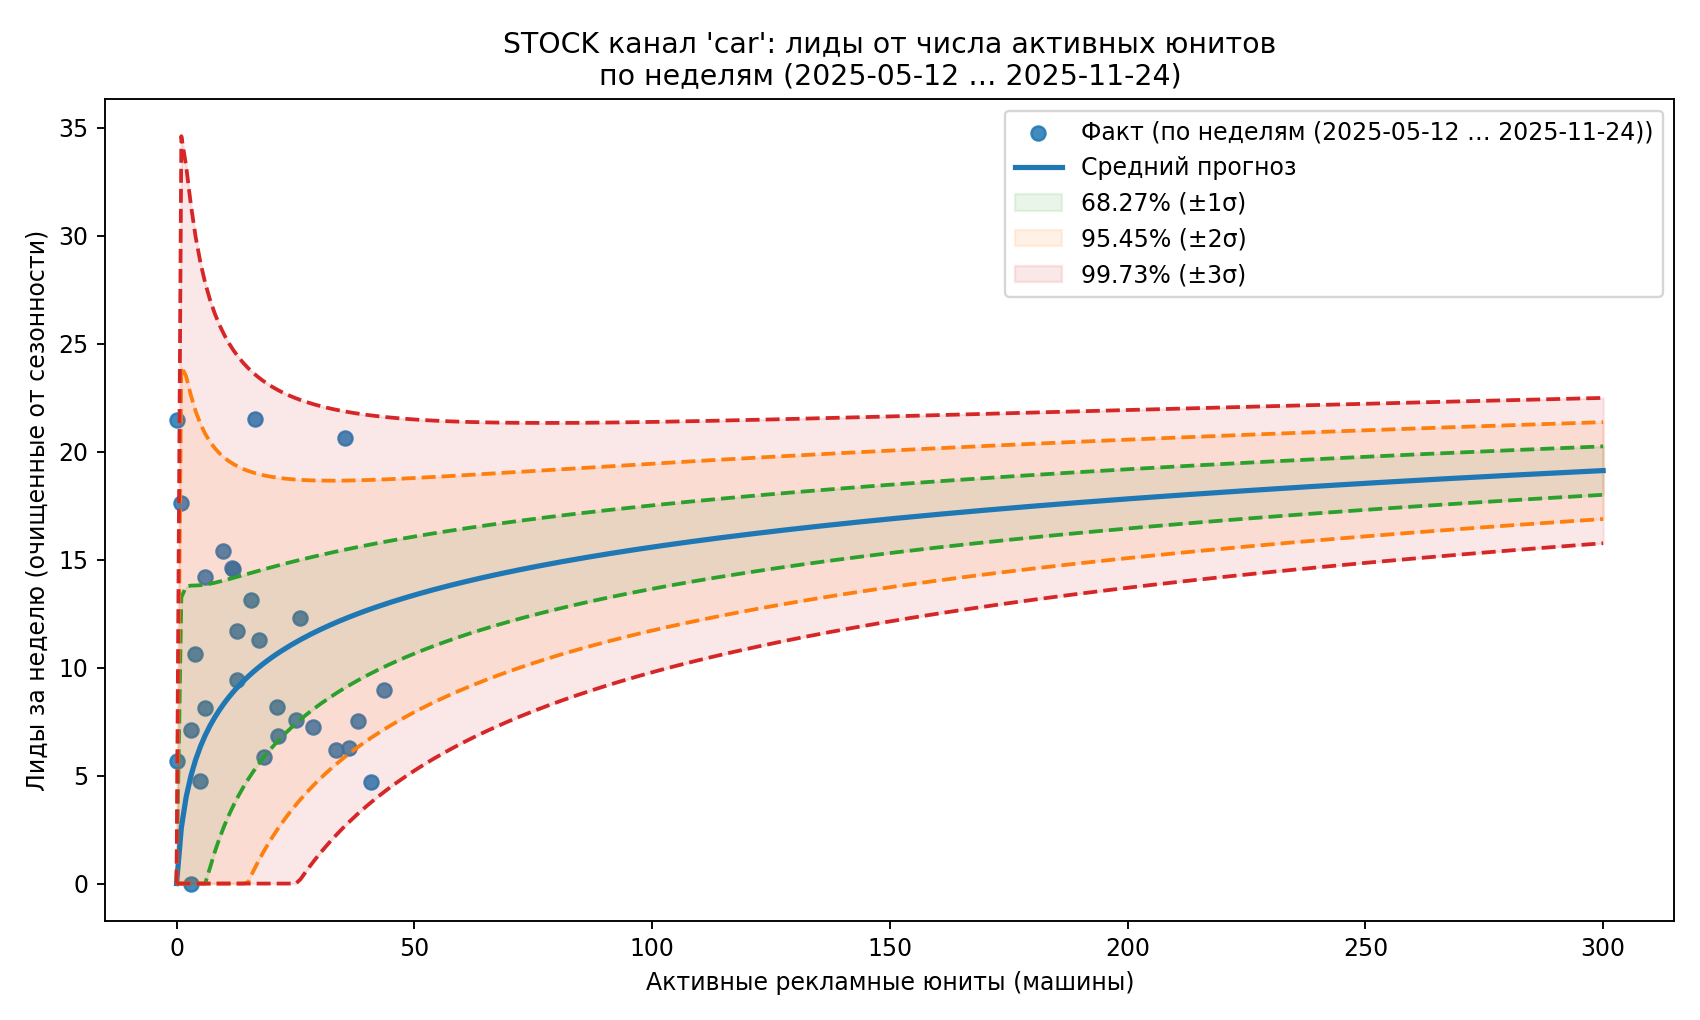
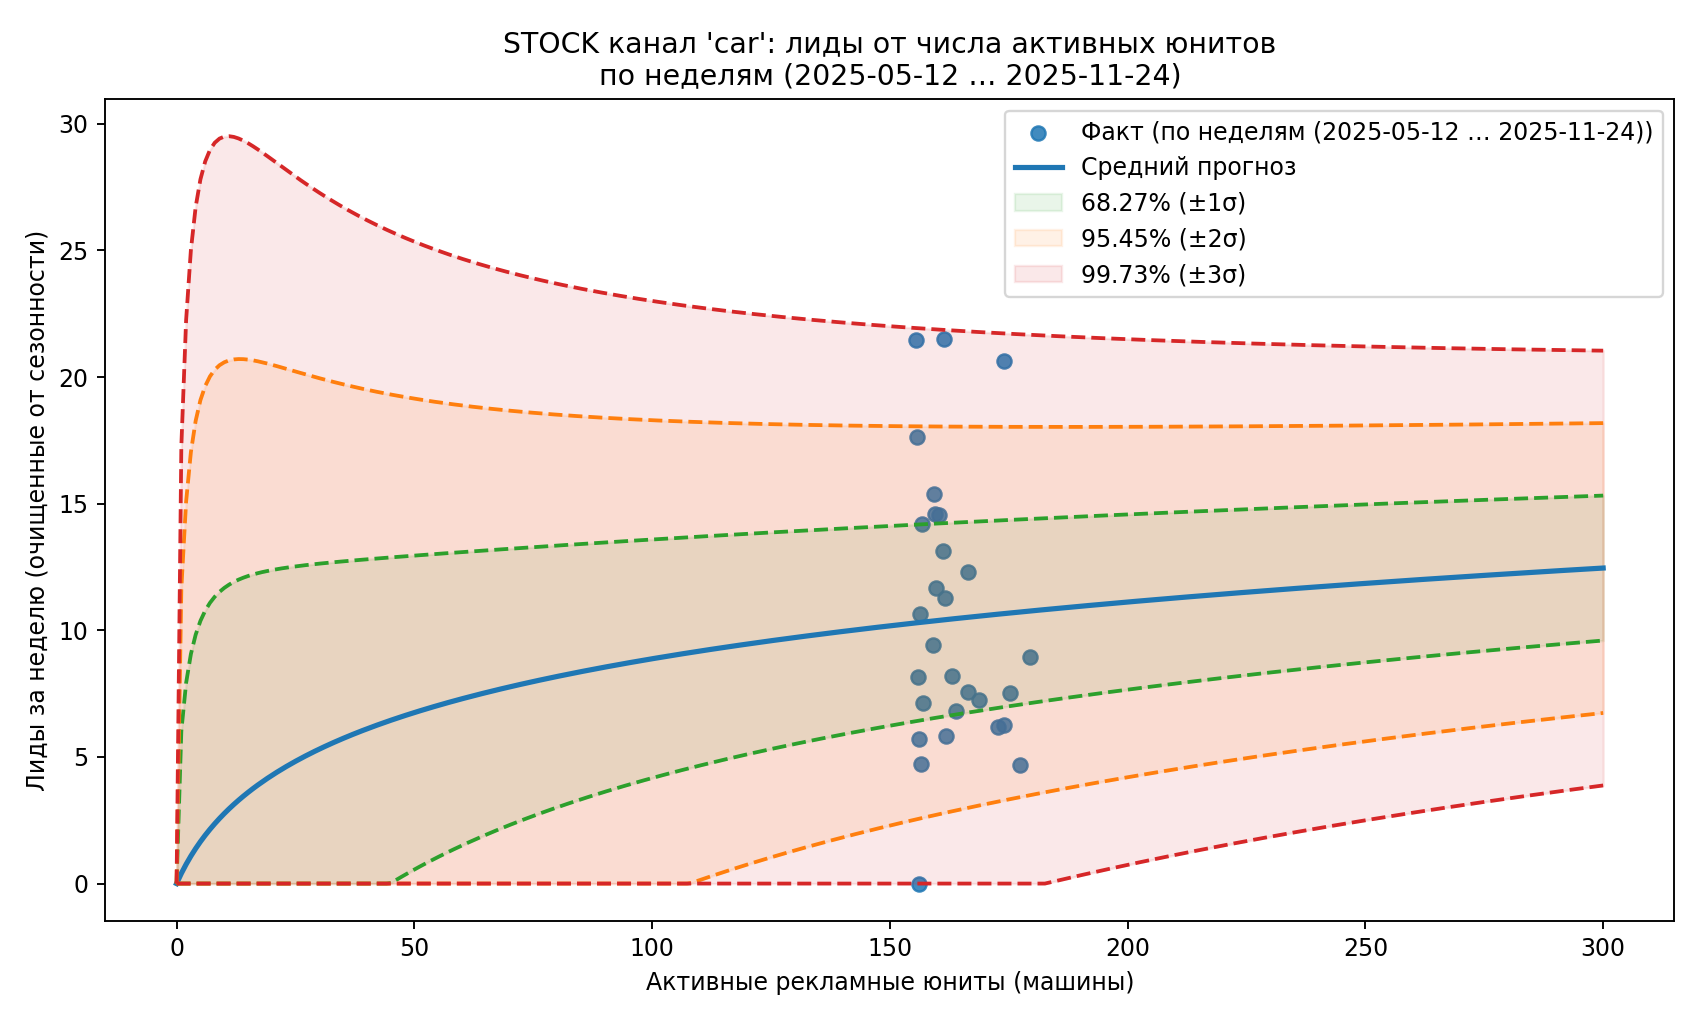
Корректное отображение механики stock-канала
Stock-канал ранее работал без inital_units. Теперь эта правка добавлена.

diff --git a/core/preprocessing.py b/core/preprocessing.py
@@ -70,6 +70,10 @@ def load_dataset(
     return out
 
 
+from typing import Dict, Any, List, Optional
+import pandas as pd
+
+
 def build_stock_channel_configs(
     stock_constants: pd.DataFrame,
     present_stock_channels: List[str],
@@ -77,9 +81,12 @@ def build_stock_channel_configs(
     """Convert constants table -> per-channel config dict.
 
     Returned dict keys are channel names (e.g. "car"). Values are dicts accepted by
-    core.fit_stock_channels.stage_fit_stock_channels().
+    core.fit_stock_channels (active units reconstruction).
 
-    Missing fields are left as None so CLI can fill them in.
+    Notes:
+    - canonical field name: initial_active_units
+    - we also expose aliases: initial_units, units_start (for backward compatibility)
+    - unit_decay is also exposed as decay (alias expected by some implementations)
     """
 
     # defaults (MVP)
@@ -96,10 +103,19 @@ def build_stock_channel_configs(
     cfg: Dict[str, Dict[str, Any]] = {ch: dict(defaults) for ch in present_stock_channels}
 
     if stock_constants is None or stock_constants.empty:
+        # add aliases anyway
+        for ch in present_stock_channels:
+            cfg[ch]["decay"] = cfg[ch]["unit_decay"]
+            cfg[ch]["initial_units"] = cfg[ch]["initial_active_units"]
+            cfg[ch]["units_start"] = cfg[ch]["initial_active_units"]
         return cfg
 
     df = stock_constants.copy()
     if "channel" not in df.columns:
+        for ch in present_stock_channels:
+            cfg[ch]["decay"] = cfg[ch]["unit_decay"]
+            cfg[ch]["initial_units"] = cfg[ch]["initial_active_units"]
+            cfg[ch]["units_start"] = cfg[ch]["initial_active_units"]
         return cfg
 
     df["channel"] = df["channel"].astype(str).str.strip().str.lower()
@@ -130,15 +146,33 @@ def build_stock_channel_configs(
 
         cfg[ch]["cost_per_unit"] = _get_float("cost_per_unit")
         cfg[ch]["life_weeks"] = _get_int("life_weeks", defaults["life_weeks"])
+
         ud = _get_float("unit_decay")
         cfg[ch]["unit_decay"] = float(ud) if ud is not None else defaults["unit_decay"]
+
         cfg[ch]["avg_units_target"] = _get_float("avg_units_target")
         cfg[ch]["max_units"] = _get_float("max_units")
+
         cm = r.get("calibration_mode", defaults["calibration_mode"])
         cfg[ch]["calibration_mode"] = str(cm).strip() if cm is not None else defaults["calibration_mode"]
-        cfg[ch]["initial_active_units"] = _get_float("initial_active_units")
+
+        # canonical initial units
+        init = _get_float("initial_active_units")
+        if init is None:
+            # accept alternative column names if present in constants table
+            init = _get_float("initial_units")
+        if init is None:
+            init = _get_float("units_start")
+        cfg[ch]["initial_active_units"] = init
+
+    # --- expose aliases expected by fit_stock_channels implementations ---
+    for ch in present_stock_channels:
+        cfg[ch]["decay"] = cfg[ch]["unit_decay"]
+        cfg[ch]["initial_units"] = cfg[ch]["initial_active_units"]
+        cfg[ch]["units_start"] = cfg[ch]["initial_active_units"]
 
     return cfg
+
 
 
 def register_dataset_loader(name: str):
